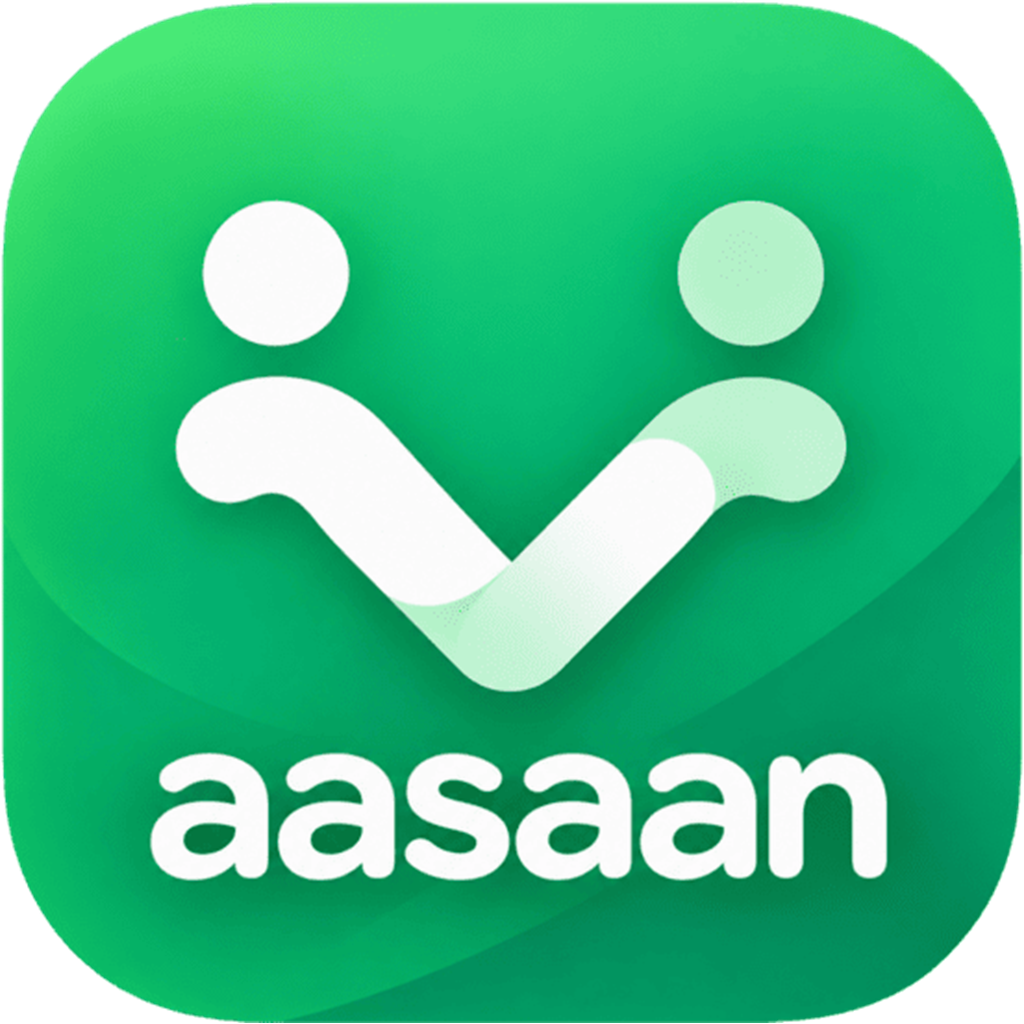
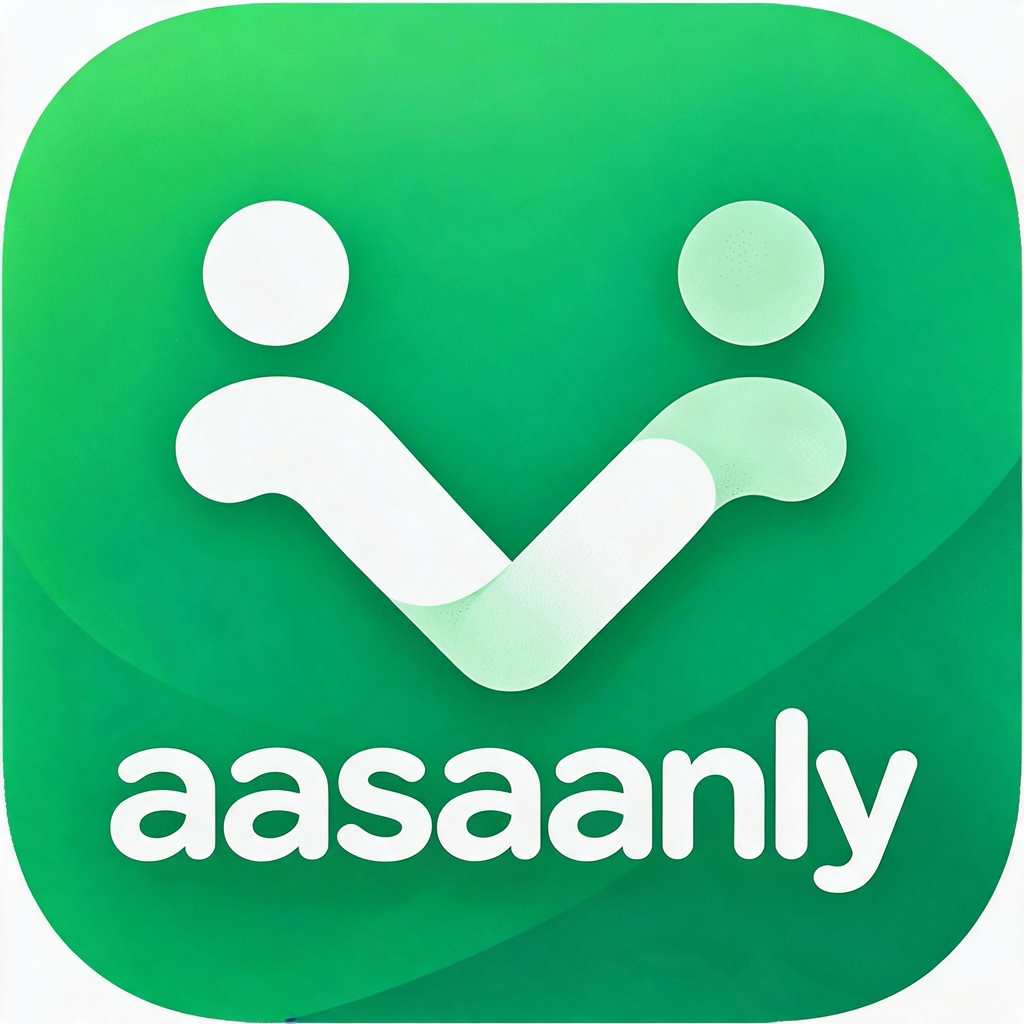
feat: update branding from Aasaan to Aasaanly across the application; modify URLs, tokens, and references

diff --git a/website/index.html b/website/index.html
@@ -10,9 +10,9 @@
 <meta property="og:type" content="website">
 <meta property="og:title" content="Aasaan — The right help is already nearby">
 <meta property="og:description" content="One request. Verified providers near you call you directly. 21 services, 7 languages, free to start.">
-<meta property="og:url" content="https://www.aasaanapp.in/">
+<meta property="og:url" content="https://www.aasaanly.com/">
 <meta name="twitter:card" content="summary_large_image">
-<link rel="canonical" href="https://www.aasaanapp.in/">
+<link rel="canonical" href="https://www.aasaanly.com/">
 <link rel="icon" type="image/png" sizes="32x32" href="assets/favicon-32.png">
 <link rel="icon" type="image/png" sizes="512x512" href="assets/icon-512.png">
 <link rel="apple-touch-icon" sizes="180x180" href="assets/apple-touch-icon.png">
@@ -27,7 +27,7 @@
 <script src="assets/hi.js" defer></script>
 <script src="assets/i18n.js" defer></script>
 <script type="application/ld+json">
-{"@context":"https://schema.org","@type":"SoftwareApplication","name":"Aasaan","applicationCategory":"BusinessApplication","operatingSystem":"Android, iOS, Web","description":"Marketplace connecting people who need help with everyday tasks to nearby service providers.","offers":{"@type":"Offer","price":"0","priceCurrency":"INR"},"areaServed":"IN","availableLanguage":["en","hi","gu","mr","ta","te","kn"],"contactPoint":{"@type":"ContactPoint","telephone":"+91-8004920005","contactType":"customer support","email":"hello@aasaanapp.in","areaServed":"IN"}}
+{"@context":"https://schema.org","@type":"SoftwareApplication","name":"Aasaan","applicationCategory":"BusinessApplication","operatingSystem":"Android, iOS, Web","description":"Marketplace connecting people who need help with everyday tasks to nearby service providers.","offers":{"@type":"Offer","price":"0","priceCurrency":"INR"},"areaServed":"IN","availableLanguage":["en","hi","gu","mr","ta","te","kn"],"contactPoint":{"@type":"ContactPoint","telephone":"+91-8004920005","contactType":"customer support","email":"hello@aasaanly.com","areaServed":"IN"}}
 </script>
 </head>
 <body>
@@ -54,7 +54,7 @@
       <a href="#faq" data-i18n="nav.faq">FAQ</a>
 
       <div class="nav-foot">
-        <a href="mailto:hello@aasaanapp.in">hello@aasaanapp.in</a>
+        <a href="mailto:hello@aasaanly.com">hello@aasaanly.com</a>
         <a href="tel:+918004920005">+91 80049 20005</a>
         <span>Noida, India</span>
         <div class="lang-switch lang-switch-foot" role="group" data-i18n-attr="aria-label:switch.label">
@@ -444,7 +444,7 @@
       <article class="svc reveal" data-cat="More Services" data-name="caterer"><h3>Caterer</h3><p>Buffet, veg, non-veg, custom menu</p></article>
       <article class="svc reveal" data-cat="More Services" data-name="interior designer"><h3>Interior Designer</h3><p>Living room, bedroom, kitchen, consultation</p></article>
     </div>
-    <p class="svc-empty" id="serviceEmpty" hidden data-i18n="svc.empty" data-i18n-html>No service matches that search. Try another word, or <a class="tlink" href="mailto:hello@aasaanapp.in">ask us to add it</a>.</p>
+    <p class="svc-empty" id="serviceEmpty" hidden data-i18n="svc.empty" data-i18n-html>No service matches that search. Try another word, or <a class="tlink" href="mailto:hello@aasaanly.com">ask us to add it</a>.</p>
   </div>
 </section>
 
@@ -708,7 +708,7 @@
 
       <button class="btn btn-brand btn-block" type="submit" data-i18n="form.submit">Request a demo</button>
       <p class="form-ok" id="formOk" role="status" hidden data-i18n="form.ok">Thanks — we'll be in touch within one business day.</p>
-      <p class="form-fine"><span data-i18n="form.prefer">Prefer email?</span> <a class="tlink" href="mailto:hello@aasaanapp.in">hello@aasaanapp.in</a></p>
+      <p class="form-fine"><span data-i18n="form.prefer">Prefer email?</span> <a class="tlink" href="mailto:hello@aasaanly.com">hello@aasaanly.com</a></p>
     </form>
   </div>
 </section>
@@ -749,7 +749,7 @@
       <div>
         <h4 data-i18n="nav.contact">Contact</h4>
         <ul class="footer-links">
-          <li><a href="mailto:hello@aasaanapp.in">hello@aasaanapp.in</a></li>
+          <li><a href="mailto:hello@aasaanly.com">hello@aasaanly.com</a></li>
           <li><a href="tel:+918004920005">+91 80049 20005</a></li>
           <li><a href="tel:+919873938108">+91 98739 38108</a></li>
           <li><span>Noida, India</span></li>

diff --git a/frontend/src/contexts/AuthContext.tsx b/frontend/src/contexts/AuthContext.tsx
@@ -81,8 +81,8 @@ export const AuthProvider: React.FC<{ children: React.ReactNode }> = ({ children
   useEffect(() => {
     (async () => {
       try {
-        const storedToken = await authStorage.getItem('aasaan_token');
-        const storedUser = await authStorage.getItem('aasaan_user');
+        const storedToken = await authStorage.getItem('aasaanly_token');
+        const storedUser = await authStorage.getItem('aasaanly_user');
         if (storedToken && storedUser) {
           setToken(storedToken);
           setUser(JSON.parse(storedUser));
@@ -108,8 +108,8 @@ export const AuthProvider: React.FC<{ children: React.ReactNode }> = ({ children
     authVersion.current += 1;
     setToken(tok);
     setUser(usr);
-    await authStorage.setItem('aasaan_token', tok);
-    await authStorage.setItem('aasaan_user', JSON.stringify(usr));
+    await authStorage.setItem('aasaanly_token', tok);
+    await authStorage.setItem('aasaanly_user', JSON.stringify(usr));
 
     // Redirect to role selection page if role is null
     if (!usr.role && navigation) {
@@ -129,8 +129,8 @@ export const AuthProvider: React.FC<{ children: React.ReactNode }> = ({ children
     }
     setToken(null);
     setUser(null);
-    await authStorage.deleteItem('aasaan_token');
-    await authStorage.deleteItem('aasaan_user');
+    await authStorage.deleteItem('aasaanly_token');
+    await authStorage.deleteItem('aasaanly_user');
   };
 
   const refreshUser = async () => {
@@ -142,7 +142,7 @@ export const AuthProvider: React.FC<{ children: React.ReactNode }> = ({ children
       updated = await getProfile(requestToken);
       if (requestVersion !== authVersion.current) return;
       setUser(updated);
-      await authStorage.setItem('aasaan_user', JSON.stringify(updated));
+      await authStorage.setItem('aasaanly_user', JSON.stringify(updated));
     } catch (err) {
       throw err;
     }
@@ -154,7 +154,7 @@ export const AuthProvider: React.FC<{ children: React.ReactNode }> = ({ children
       let updated: any;
       updated = await updateProfile(token, updates as any);
       setUser(updated);
-      await authStorage.setItem('aasaan_user', JSON.stringify(updated));
+      await authStorage.setItem('aasaanly_user', JSON.stringify(updated));
     } catch (err) {
       throw err;
     }
@@ -165,7 +165,7 @@ export const AuthProvider: React.FC<{ children: React.ReactNode }> = ({ children
     // optimistic local update
     const next = { ...user, language: lang } as User;
     setUser(next);
-    await authStorage.setItem('aasaan_user', JSON.stringify(next));
+    await authStorage.setItem('aasaanly_user', JSON.stringify(next));
     // persist to backend when token is present
     if (token) {
       try {

diff --git a/frontend/src/screens/MobileInputScreen.tsx b/frontend/src/screens/MobileInputScreen.tsx
@@ -64,7 +64,7 @@ const MobileInputScreen: React.FC = () => {
     <html><head><meta name="viewport" content="width=device-width, initial-scale=1"></head>
     <body>
       <script>
-        window.location.href = ${JSON.stringify(`truecallersdk://truesdk/web_verify?type=btmsheet&requestNonce=${requestId}&partnerKey=${TRUECALLER_APP_KEY}&partnerName=Aasaan&lang=en&privacyUrl=https%3A%2F%2Fwww.aasaanapp.in%2Fprivacy.html&termsUrl=https%3A%2F%2Fwww.aasaanapp.in%2Fterms.html&loginPrefix=continue&loginSuffix=login&ctaPrefix=continuewith&ctaColor=%232563eb&ctaTextColor=%23ffffff&btnShape=round&skipOption=useanothermethod&ttl=30000`)};
+        window.location.href = ${JSON.stringify(`truecallersdk://truesdk/web_verify?type=btmsheet&requestNonce=${requestId}&partnerKey=${TRUECALLER_APP_KEY}&partnerName=Aasaanly&lang=en&privacyUrl=https%3A%2F%2Fwww.aasaanly.com%2Fprivacy.html&termsUrl=https%3A%2F%2Fwww.aasaanly.com%2Fterms.html&loginPrefix=continue&loginSuffix=login&ctaPrefix=continuewith&ctaColor=%232563eb&ctaTextColor=%23ffffff&btnShape=round&skipOption=useanothermethod&ttl=30000`)};
       </script>
     </body></html>`;
 
@@ -121,8 +121,8 @@ const MobileInputScreen: React.FC = () => {
   const openWeb = (type: 'terms' | 'privacy') => {
     const url =
       type === 'terms'
-        ? 'https://www.aasaanapp.in/terms.html'
-        : 'https://www.aasaanapp.in/privacy.html';
+        ? 'https://www.aasaanly.com/terms.html'
+        : 'https://www.aasaanly.com/privacy.html';
     const title = type === 'terms' ? t('mobile.tos') : t('mobile.privacy');
     setWebUrl(url);
     setWebTitle(title);

diff --git a/frontend/src/components/BrandWord.tsx b/frontend/src/components/BrandWord.tsx
@@ -28,17 +28,17 @@ export const BrandWord: React.FC<BrandWordProps> = ({ children = BRAND_WORD, sty
 type BrandTextProps = TextProps & { children: string | undefined };
 
 /**
- * Renders a sentence and styles every brand-word occurrence ("aasaanly",
- * "Aasaanly" or legacy "Aasaan") with the splash wordmark treatment.
- * Use it anywhere a text string contains the brand word.
+ * Renders a sentence and styles every "aasaanly" occurrence with the
+ * splash wordmark treatment. Use it anywhere a text string contains the
+ * brand word.
  */
 export const BrandText: React.FC<BrandTextProps> = ({ children, ...rest }) => {
-  const parts = String(children ?? '').split(/(aasaanly|Aasaanly|Aasaan)/g);
+  const parts = String(children ?? '').split(/(aasaanly)/g);
   return (
     <Text {...rest}>
       {parts.map((part, i) =>
-        /^(aasaanly|Aasaanly|Aasaan)$/i.test(part) ? (
-          <BrandWord key={i}>{BRAND_WORD}</BrandWord>
+        part === BRAND_WORD ? (
+          <BrandWord key={i} />
         ) : (
           <React.Fragment key={i}>{part}</React.Fragment>
         ),

diff --git a/frontend/src/screens/OTPVerificationScreen.tsx b/frontend/src/screens/OTPVerificationScreen.tsx
@@ -77,7 +77,7 @@ const OTPVerificationScreen: React.FC = () => {
   };
 
   const openWeb = (type: 'terms' | 'privacy') => {
-    const url = type === 'terms' ? 'https://www.aasaanapp.in/terms.html' : 'https://www.aasaanapp.in/privacy.html';
+    const url = type === 'terms' ? 'https://www.aasaanly.com/terms.html' : 'https://www.aasaanly.com/privacy.html';
     const title = type === 'terms' ? t('mobile.tos') : t('mobile.privacy');
     setWebUrl(url);
     setWebTitle(title);
@@ -137,7 +137,7 @@ const OTPVerificationScreen: React.FC = () => {
 
           {/* Help text */}
           <Text style={styles.helpText}>
-            {t('common.helpLine')} <Text style={styles.helpLink}>help@aasaan.com</Text>
+            {t('common.helpLine')} <Text style={styles.helpLink}>help@aasaanly.com</Text>
           </Text>
 
           {/* Terms and Privacy (open in in-app WebView) */}

diff --git a/website/assets/app.js b/website/assets/app.js
@@ -328,7 +328,7 @@
         'Name: ' + name + '\n' +
         'Email: ' + (data.get('email') || '') + '\n' +
         'Company: ' + (data.get('company') || '—') + '\n\n' +
-        'Sent from aasaanapp.in'
+        'Sent from aasaanly.com'
       );
 
       if (ok) ok.hidden = false;
@@ -336,8 +336,8 @@
       required.forEach(function (i) { setError(i, ''); });
 
       window.setTimeout(function () {
-        if (window.confirm('Thanks, ' + name + '! Open your email app to send this to hello@aasaanapp.in?')) {
-          window.location.href = 'mailto:hello@aasaanapp.in?subject=' + subject + '&body=' + body;
+        if (window.confirm('Thanks, ' + name + '! Open your email app to send this to hello@aasaanly.com?')) {
+          window.location.href = 'mailto:hello@aasaanly.com?subject=' + subject + '&body=' + body;
         }
       }, 300);
     });

diff --git a/frontend/src/navigation/linking.ts b/frontend/src/navigation/linking.ts
@@ -10,11 +10,11 @@ import { Platform } from 'react-native';
  * On web this makes the browser URL update on every screen change and lets
  * users land directly on a specific page by opening a URL (also usable for
  * refresh/back/forward).  On native devices the custom URL scheme declared in
- * app.json ("aasaan") is used, e.g. aasaan://select-services?phone=...&otp=...
+ * app.json ("aasaanly") is used, e.g. aasaanly://select-services?phone=...&otp=...
  */
 
-// URL scheme from app.json ("scheme": "aasaan") used by native deep links.
-const NATIVE_SCHEME_PREFIX = 'aasaan://';
+// URL scheme from app.json ("scheme": "aasaanly") used by native deep links.
+const NATIVE_SCHEME_PREFIX = 'aasaanly://';
 
 // On web the app is served from the current origin (localhost in dev, the
 // production domain in deployment), so it must be accepted as a prefix too.

diff --git a/website/assets/hi.js b/website/assets/hi.js
@@ -152,7 +152,7 @@ Object.assign(window.AASAAN_HI, {
   'svc.more': 'और',
   'svc.showingAll': 'सभी 21 सेवाएँ दिख रही हैं',
   'svc.showing': '21 में से {n} सेवाएँ दिख रही हैं',
-  'svc.empty': 'इस खोज से कोई सेवा नहीं मिली। दूसरा शब्द आज़माइए, या <a class="tlink" href="mailto:hello@aasaanapp.in">हमसे कहिए</a> कि इसे जोड़ दें।'
+  'svc.empty': 'इस खोज से कोई सेवा नहीं मिली। दूसरा शब्द आज़माइए, या <a class="tlink" href="mailto:hello@aasaanly.com">हमसे कहिए</a> कि इसे जोड़ दें।'
 });
 
 /* ---------- svcNames ---------- */

diff --git a/frontend/src/components/AppMapView.web.tsx b/frontend/src/components/AppMapView.web.tsx
@@ -72,7 +72,7 @@ const loadGoogleMaps = (): Promise<GoogleMapsApi> => {
   };
 
   mapsApiPromise = new Promise((resolve, reject) => {
-    const existingScript = document.querySelector<HTMLScriptElement>('script[data-aasaan-google-maps]');
+    const existingScript = document.querySelector<HTMLScriptElement>('script[data-aasaanly-google-maps]');
     if (existingScript) {
       existingScript.addEventListener('load', () => {
         try {
@@ -89,7 +89,7 @@ const loadGoogleMaps = (): Promise<GoogleMapsApi> => {
     script.src = `https://maps.googleapis.com/maps/api/js?key=${GOOGLE_PLACES_API_KEY}`;
     script.async = true;
     script.defer = true;
-    script.dataset.aasaanGoogleMaps = 'true';
+    script.dataset.aasaanlyGoogleMaps = 'true';
     script.onload = () => {
       try {
         resolve(getLoadedGoogle());

diff --git a/frontend/src/api/index.ts b/frontend/src/api/index.ts
@@ -22,7 +22,7 @@ if (Platform.OS === 'web') {
 /** Request interceptor: attach the stored JWT to every outgoing request. */
 api.interceptors.request.use(async (config) => {
   try {
-    const token = await SecureStore.getItemAsync('aasaan_token');
+    const token = await SecureStore.getItemAsync('aasaanly_token');
     if (token) {
       config.headers.Authorization = `Bearer ${token}`;
     }
@@ -39,7 +39,7 @@ api.interceptors.response.use(
   async (error: AxiosError) => {
     if (error.response?.status === 401) {
       try {
-        await SecureStore.deleteItemAsync('aasaan_token');
+        await SecureStore.deleteItemAsync('aasaanly_token');
       } catch {
         // Ignore cleanup errors.
       }

diff --git a/frontend/src/data/services.ts b/frontend/src/data/services.ts
@@ -1,5 +1,5 @@
 /**
- * Definition of all available services offered on the Aasaan platform.  Each
+ * Definition of all available services offered on the Aasaanly platform.  Each
  * service belongs to a category and optionally defines a list of suggested
  * tags.  The tags help end users describe their issue more precisely when
  * creating a work request.  Service providers can select up to three

diff --git a/frontend/src/contexts/ThemeContext.tsx b/frontend/src/contexts/ThemeContext.tsx
@@ -21,7 +21,7 @@ import {
 /** App appearance mode — controlled by the Profile → Dark mode switch. */
 export type ThemeMode = 'light' | 'dark';
 
-const STORAGE_KEY = 'aasaan_theme_mode';
+const STORAGE_KEY = 'aasaanly_theme_mode';
 
 type ThemeContextValue = {
   /** Current appearance mode. Defaults to light until persisted value loads. */
